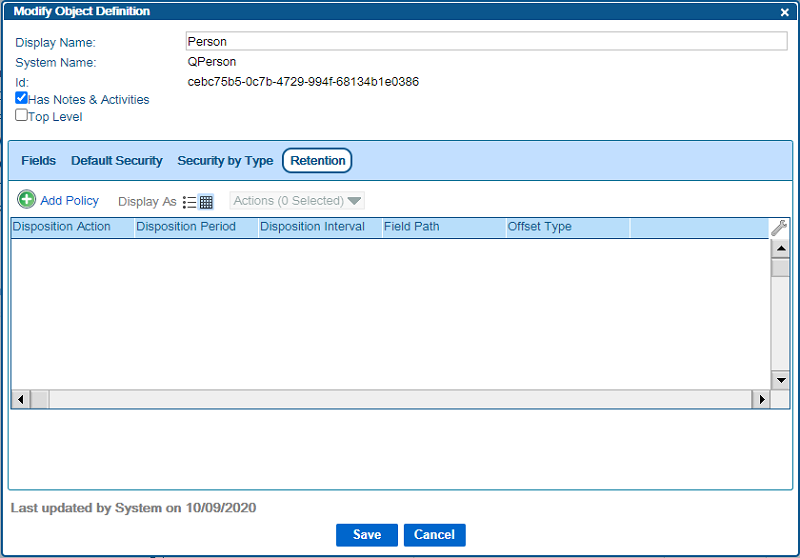
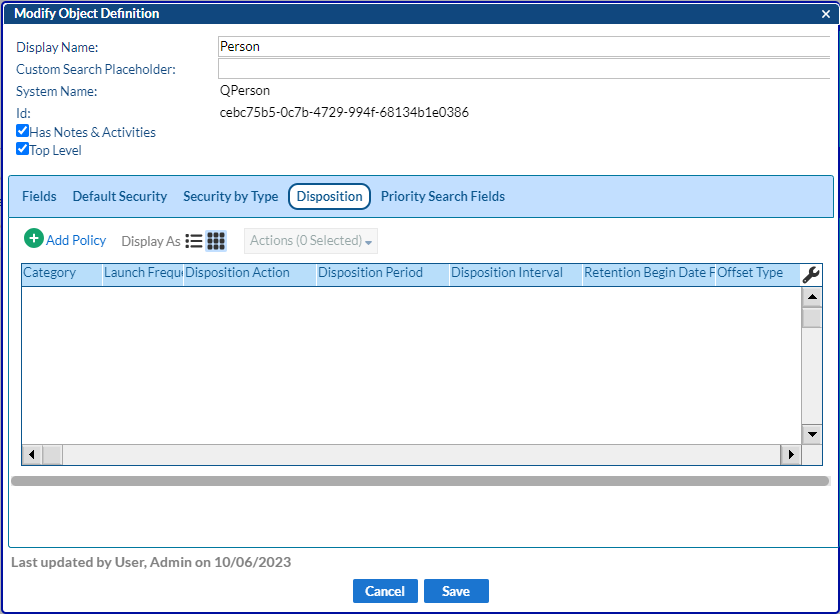
MNT-775 5.23.1 Release Notes, MNT-780 Re-Index Action, MNT-781 RM Group Assignees

Changed region(s): [[0.0, 0.0, 1.0, 0.9444], [0.0, 0.914, 1.0, 1.0]]

diff --git a/docs/working-with-documents/document-actions/index.md b/docs/working-with-documents/document-actions/index.md
@@ -8,19 +8,19 @@ has_toc: true
 ---
 # Document Actions Overview
 Review the available Actions menu options below:
-- Download Document - Click to download the document.
-- **Preview Document** - for PDFs only  - preview the document in the browser.
-- View Folders Filed In - Click to view the Document Folders window. In this window, workflow folders that this document was added to appears. For example, the Document Folders window accessed in the following image shows that the document is in a Web Content Approval folder.  
-    ![](/assets/images/document-folders-window.PNG)
-- Add/View Notes - Click to view the Document Notes window. See [Adding and Viewing Document Notes](/docs/working-with-documents/document-actions/adding-and-viewing-document-notes) for more information.
-- Check Out Document - Click to download the document and lock it so no other user can work on the document. See Performing a Document Check In and Out for more information.
-- Check in New Version - Click to view the Add New Version window where you can overwrite the existing document with a new version. See Performing a Document Check In and Out for more information.
-- Modify Index - Click to view the Modify Document Indexes window. See [Modifying Document Indexes](/docs/working-with-documents/document-actions/modifying-document-indexes) for more information.
-- Modify Security - Click to view the Modify Document Security window. See [Modifying Document Security Settings](/docs/working-with-documents/document-actions/modify-document-security) for more information.
-- Make Ready-Only - Click to view the Confirm Make Read Only window. See [Making Document Read-Only](/docs/working-with-documents/document-actions/make-documents-read-only) for more information.
-- Copy Document - Click to create another copy of the document in the system.  This will open a screen where indexes for the new copy of the document can be modified.
-- Delete Document - Click to delete a document.
-- E-mail Link and Document Attachment - Click to download an email message (.msg). Double-click the downloaded message to view it in Outlook. The email message contains the PDF attachment and a link to the document within QAction. Enter an email address in the To field before clicking Send.
-- View Link - Click to view the View Link window. In this window, select the link in the text field and press CTRL + C to copy the link.
-- View Collections - Click to view the Document Collections window. See [Document Collections](/docs/working-with-documents/collections/) for more information.
-- Add to Collection - Click to view the Select Collection window. See [Document Collections](/docs/working-with-documents/collections/) for more information.
+- **Re-Index Document(s)** - Click to ensure that cached data related to the document is up to date.
+- **Download Document** - Click to download the document.
+- **Preview Document** (for PDFs only) - preview the document in the browser.
+- **View Folders Filed In** - Click to view the Document Folders window. In this window, workflow folders that this document was added to appears. 
+- **Add/View Notes** - Click to view the Document Notes window. See [Adding and Viewing Document Notes](/docs/working-with-documents/document-actions/adding-and-viewing-document-notes) for more information.
+- **Check Out Document** - Click to download the document and lock it so no other user can work on the document. See Performing a Document Check In and Out for more information.
+- **Check in New Version** - Click to view the Add New Version window where you can overwrite the existing document with a new version. See Performing a Document Check In and Out for more information.
+- **Modify Index** - Click to view the Modify Document Indexes window. See [Modifying Document Indexes](/docs/working-with-documents/document-actions/modifying-document-indexes) for more information.
+- **Modify Security** - Click to view the Modify Document Security window. See [Modifying Document Security Settings](/docs/working-with-documents/document-actions/modify-document-security) for more information.
+- **Make Ready-Only** - Click to view the Confirm Make Read Only window. See [Making Document Read-Only](/docs/working-with-documents/document-actions/make-documents-read-only) for more information.
+- **Copy Document** - Click to create another copy of the document in the system.  This will open a screen where indexes for the new copy of the document can be modified.
+- **Delete Document** - Click to delete a document.
+- **E-mail Link and Document Attachment** - Click to download an email message (.msg). Double-click the downloaded message to view it in Outlook. The email message contains the PDF attachment and a link to the document within QAction. Enter an email address in the To field before clicking Send.
+- **View Link** - Click to view the View Link window. In this window, select the link in the text field and press CTRL + C to copy the link.
+- **View Collections** - Click to view the Document Collections window. See [Document Collections](/docs/working-with-documents/collections/) for more information.
+- **Add to Collection** - Click to view the Select Collection window. See [Document Collections](/docs/working-with-documents/collections/) for more information.

diff --git a/docs/performing-searches/understanding-search-results.md b/docs/performing-searches/understanding-search-results.md
@@ -18,7 +18,7 @@ View a search result item by clicking on its blue title.  In the screen shot ab
 
 Select a result by clicking on its checkbox at the right of the screen.  Some search screens will only allow you to select one item at a time.  Search screens that allow you to select multiple items at a time will have a Select All checkbox at the top, which will select all items you see on the screen.  
 
-The Actions menu at the top of the screen lists actions you can perform on all selected items.  The Actions menu to the left of each item lists the actions you can take on that specific item.  Most search screens just allow you to view, print, or view/add Notes.  There are many more actions that users can take on Documents specifically; learn more in [Document Actions Overview](/docs/working-with-documents/document-actions/#document-actions-overview).
+The Actions menu at the top of the screen lists actions you can perform on all selected items.  The Actions menu to the left of each item lists the actions you can take on that specific item.  Most search screens just allow you to view, print, view/add Notes, or Re-Index.  There are many more actions that users can take on Documents specifically; learn more in [Document Actions Overview](/docs/working-with-documents/document-actions/#document-actions-overview).
 
 Some search results may have a Pop-Out Icon (![](/assets/images/CustomObjectViewIcon.png)) next to one or more data fields.  Fields with that icon represent [Custom Objects](/docs/custom-objects/), which can be viewed by clicking the Pop-Out Icon.
 

diff --git a/docs/records-management/create-a-record-policy.md b/docs/records-management/create-a-record-policy.md
@@ -9,9 +9,9 @@ has_toc: false
 
 Only Application Administrators can manage Record Policies.
 
-To create a Record Policy, open the appropriate Administration screen to locate and then edit the Custom Object Definition, Folder Definition, or Classification you wish to create the policy for.  If Records Management is enabled, there is a Retention Tab on the Add/Modify screen.
+To create a Record Policy, open the appropriate Administration screen to locate and then edit the Custom Object Definition, Folder Definition, or Classification you wish to create the policy for.  If Records Management is enabled, there is a Disposition Tab on the Add/Modify screen.
 
-Retention Tab on an Example Custom Object Definition Screen  
+Disposition Tab on an Example Custom Object Definition Screen  
 ![](/assets/images/retention-tab-custom-object.png)
 
 Click Add Policy to create a Record Policy for the Definition/Classification you are editing.

diff --git a/release-notes/5.23.1.md b/release-notes/5.23.1.md
@@ -1,0 +1,25 @@
+---
+layout: default
+title: 5.23.1 Latest
+parent: Release Notes
+has_children: false
+---
+# 5.23.1
+{: .d-inline-block } 
+Latest
+{: .label .label-green }
+----
+### New Features
+- New "group by" functionality allows records management workflows to be kicked off for each group.--ENG-1268
+- New "Re-Index" action empowers users to refresh cached data.--ENG-1300
+- Improved visibility of complete task errors.--ENG-1308
+
+### Bug Fixes
+- Addressed administrative screen display issue.--ENG-1267
+- Fixed error with auto-include documents query.--ENG-1299
+- Fixed sizing issues with initiating document pop-up.--ENG-1307
+- Disposition approval workflows now only launch if there are records that need approval.--ENG-1378
+
+### Under-the-Hood Enhancements
+- Expanded document services API.--ENG-1265
+- Improved search for user administration.--ENG-1313

diff --git a/release-notes/new-features.md b/release-notes/new-features.md
@@ -2,6 +2,9 @@
 layout: minimal
 title: What's New?
 ---
+%%
+This page is used within Q-Action to display an internal pop-up. It is important to mark all links {:target="_blank"} and to consider how the contents of this page will fit into the pop-up size.
+%%
 # What's New?
 - Administrators can now update a user’s [preferences](/docs/user-preferences/#configuring-user-preferences){:target="_blank"} and [proxies](/docs/user-preferences/#configuring-user-proxies){:target="_blank"} from the [user maintenance screen](/docs/administrator-roles/application-admin/manage-users#configuring-user-privileges-preferences-and-proxies){:target="_blank"}.
 - When [re-routing batches](/docs/working-with-documents/add-documents/adding-documents-in-batches#re-route--download){:target="_blank"}, users can only select groups with at least one indexing operator.

diff --git a/release-notes/5.23.md b/release-notes/5.23.md
@@ -1,15 +1,11 @@
 ---
 layout: default
-title: "5.23 Latest"
+title: "5.23"
 parent: Release Notes
 has_children: false
 ---
 # 5.23
-{: .d-inline-block } 
-Latest
-{: .label .label-green }
 ----
-
 ### New Features
 - New "Last 6 Months" option in date search fields.--ENG-1111
 - New "Complete Days Over/Under" task search filter.--ENG-1236
